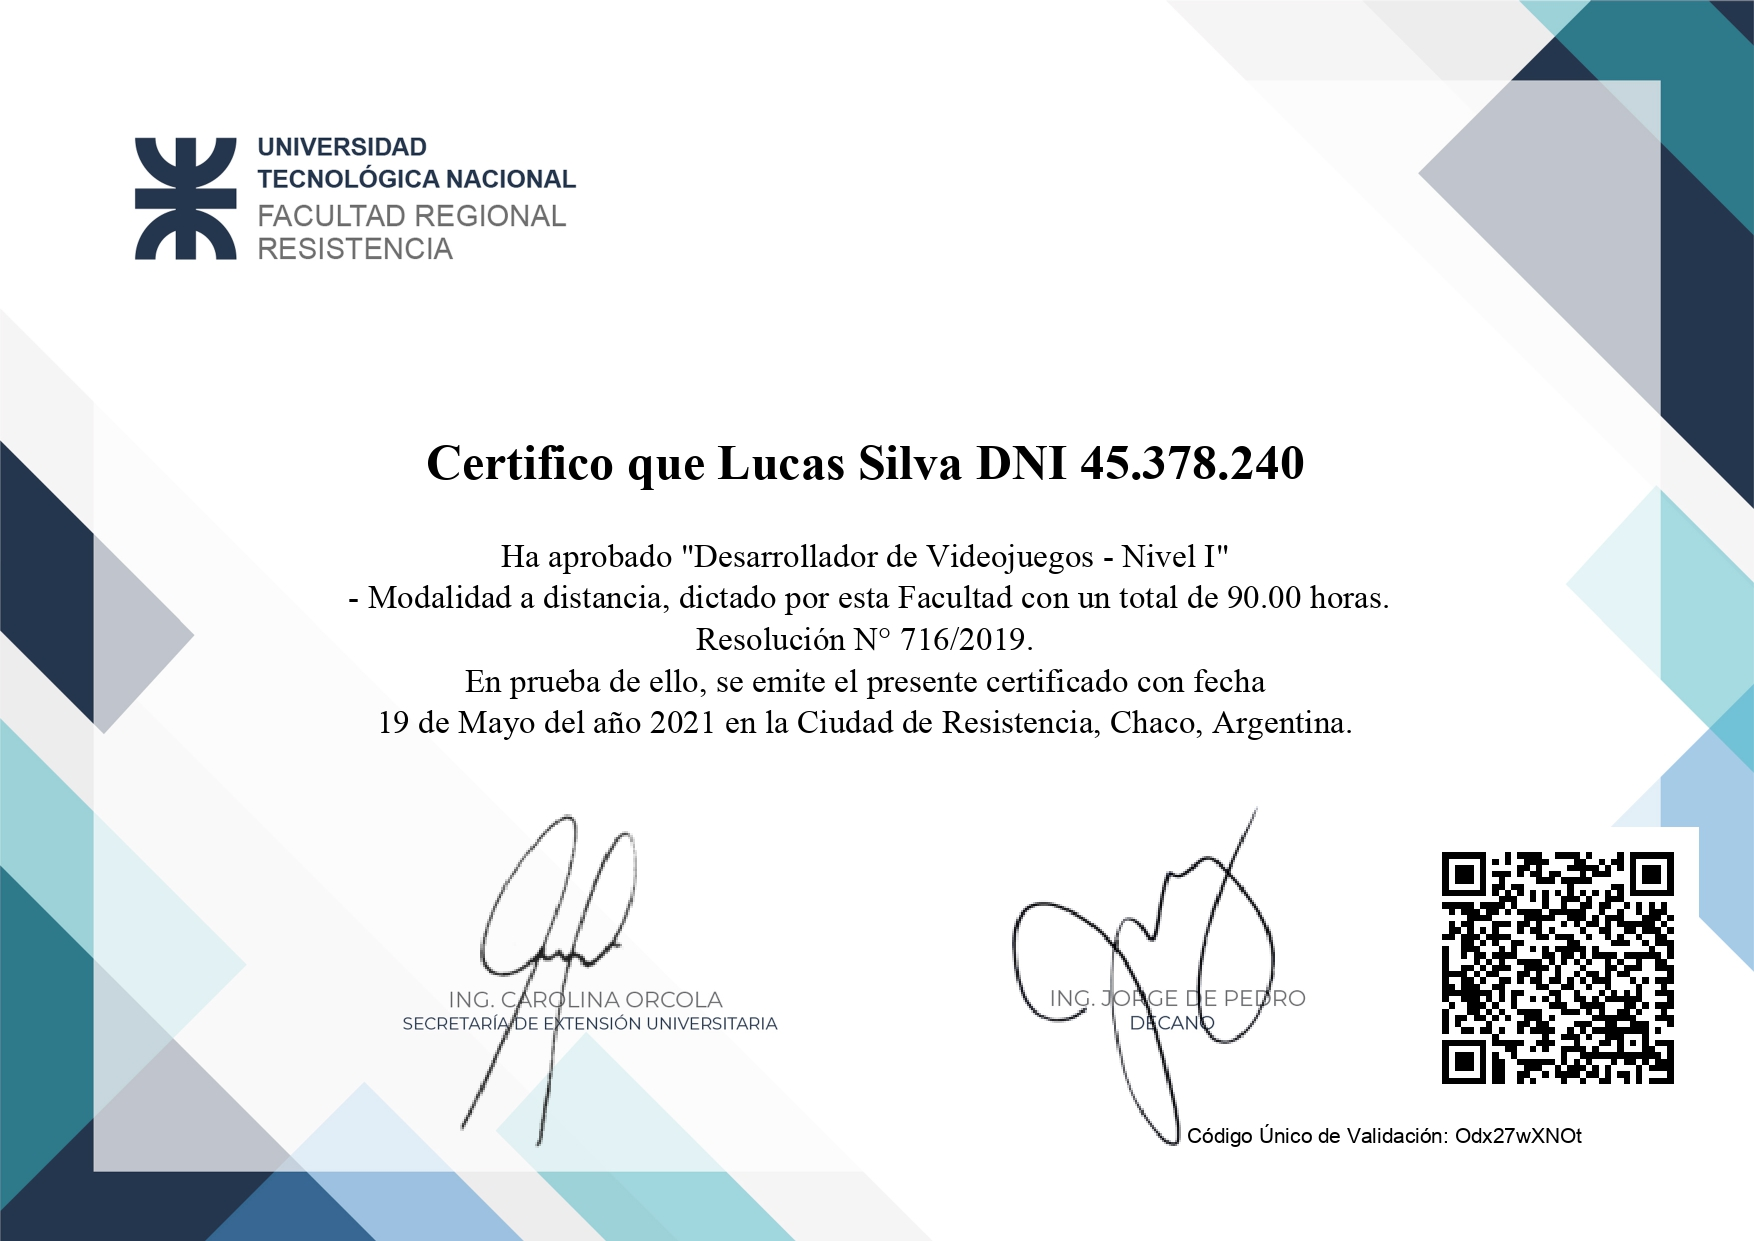
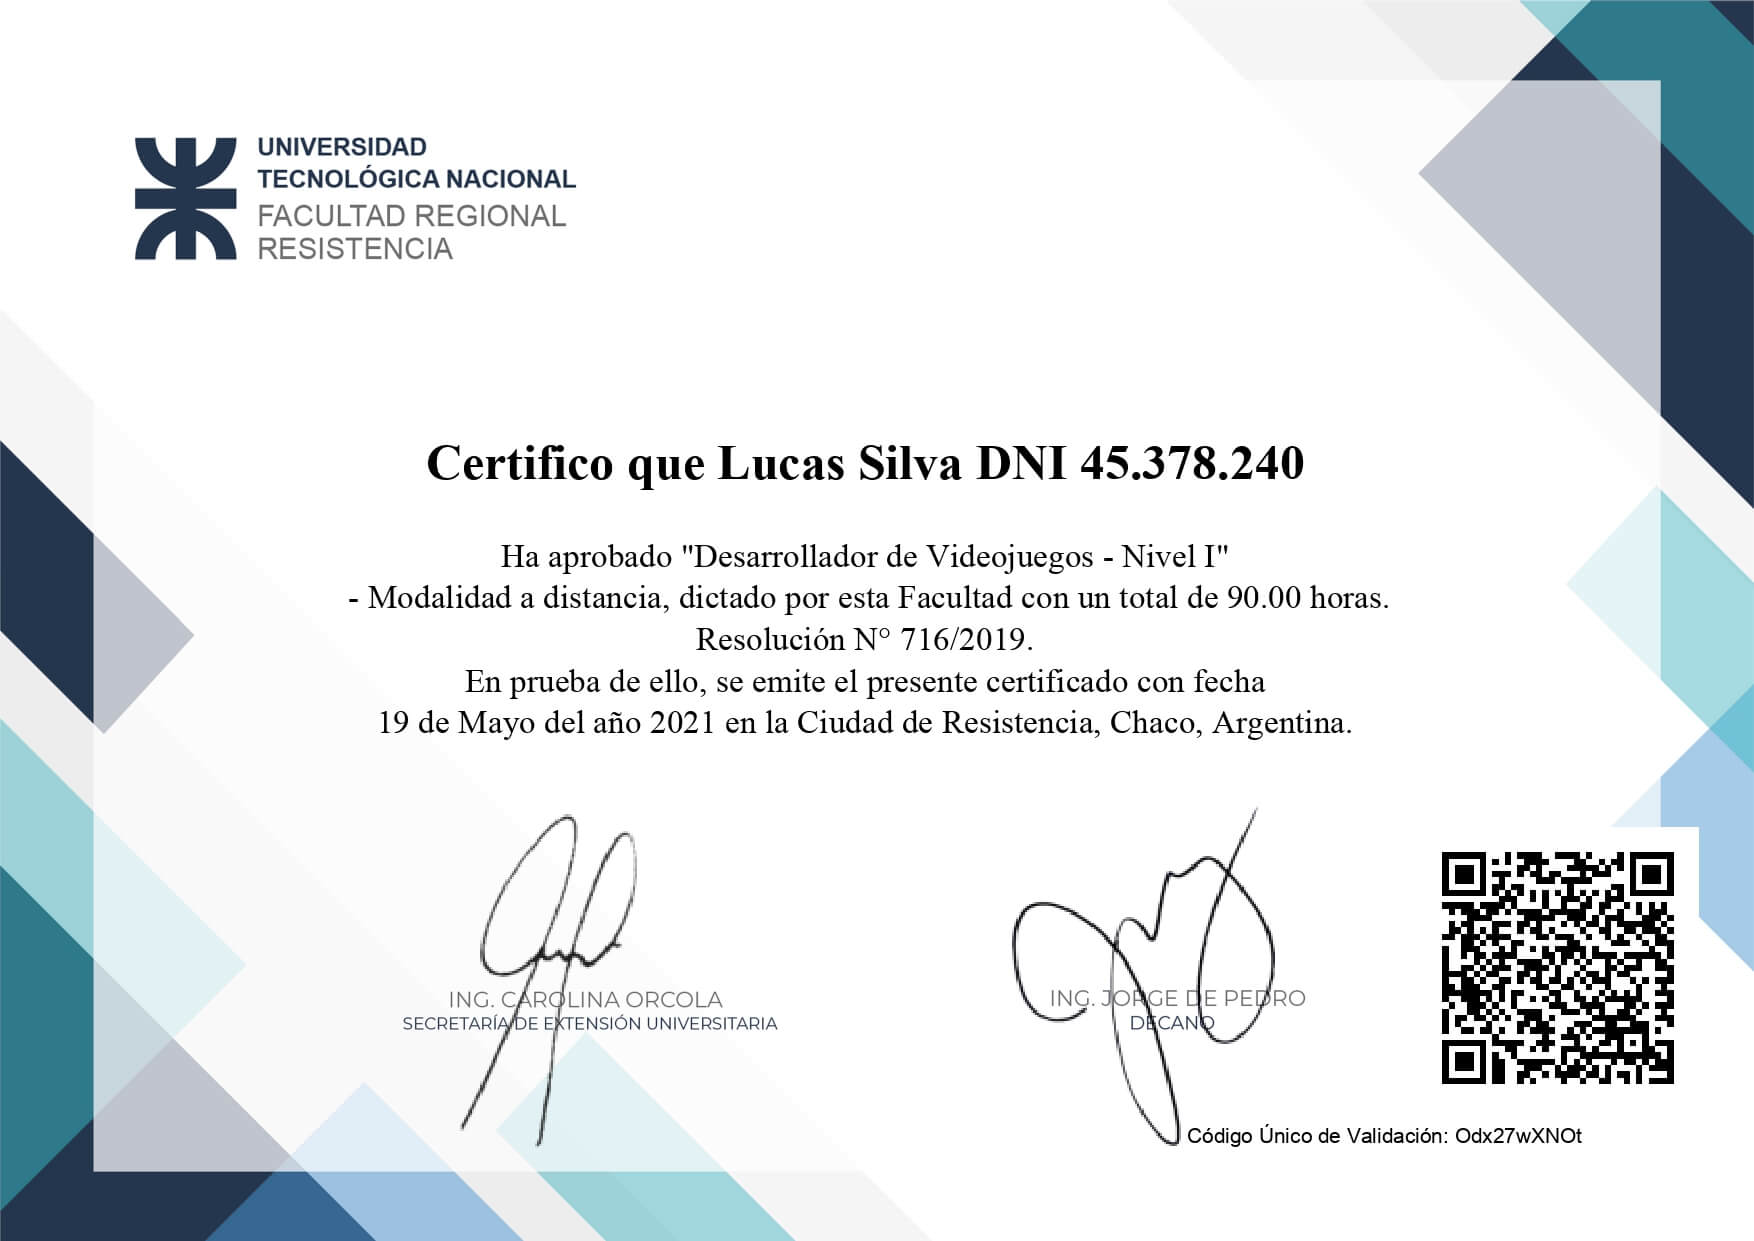
optimizated imgs

Changed region(s): [[0.8312, 0.7349, 0.8928, 0.7655], [0.4618, 0.4287, 0.4926, 0.4593], [0.1847, 0.1225, 0.2155, 0.1531]]

diff --git a/index.html b/index.html
@@ -28,14 +28,17 @@
         <i class="fa_bars"></i>
     </span> -->
 </header>
-<main>    
+<main>
     <h1>Hola! Esta es mi primera página</h1>
     <h2>¿Quién soy?</h2>
+    <div class="container-p">    
     <p>Mi nombre es <b>Lucas Silva</b> hace poco entré a la Universidad Tecnologica Nacional(UTN) de mi país. <br>
     Hace poquito mi perrita tuvo cachorritos y gracias a que los pude vender es que me pude pagar todos los cursos de Platzi. <br>
     Mi objetivo es poder estudiar en la plataforma el mayor tiempo posible para poder dedicarme a la programación y poder ayudar a mis padres a pagar mi alquiler, 
     porque la universidad donde voy a estudiar no está en mi ciudad y tengo que alquilar un departamento.</p>
-        <section>
+    </div>
+    <br>    
+    <section>
             <h2 id="certificates">Certificados acumulados de Platzi:</h2>
         <ul >
             <li class="certificates">
@@ -86,7 +89,7 @@
    </section>
 </main>
 <footer>
-   <p>Una mierda tu asd</p>
+
 </footer>
 </body>
 </html>

diff --git a/style.css b/style.css
@@ -47,6 +47,11 @@ p{
     height: 10rem;
     text-align: center;
 }
+.container-p{
+    min-width: 600px;
+    max-height: 600px;
+    justify-content: center;
+}
 .certificates{
     display: inline-block;
     color: #fff;
